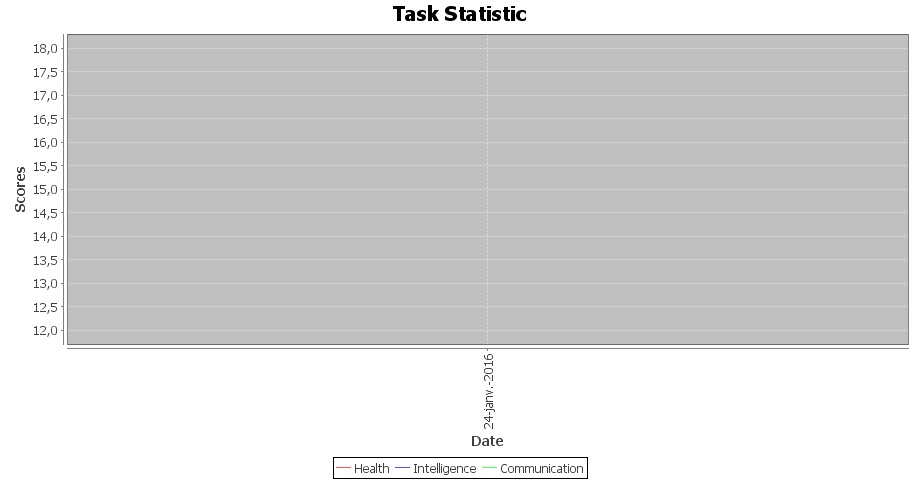
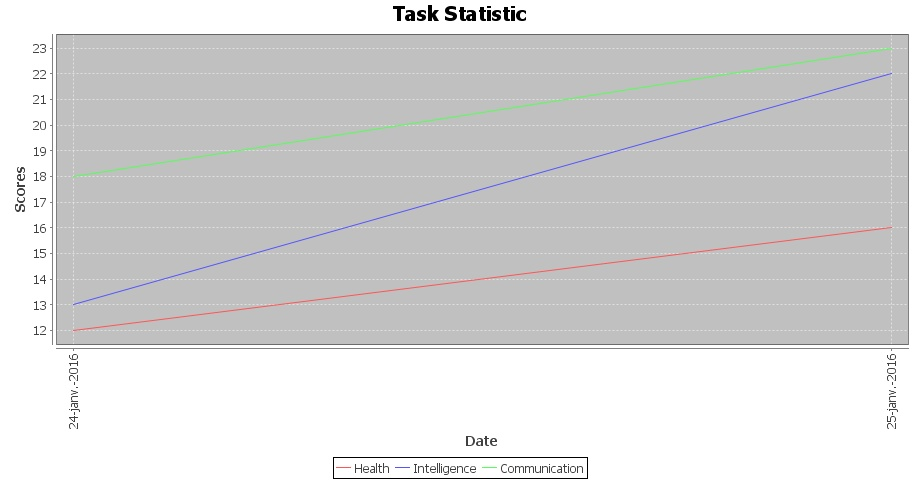
Dopolnenijav TimeService, SessionService

diff --git a/src/main/java/lv/javaguru/java2/services/SessionService.java b/src/main/java/lv/javaguru/java2/services/SessionService.java
@@ -17,7 +17,6 @@ import java.io.IOException;
 import java.sql.Timestamp;
 import java.text.ParseException;
 import java.text.SimpleDateFormat;
-import java.util.ArrayList;
 import java.util.Date;
 import java.util.List;
 
@@ -65,16 +64,6 @@ public class SessionService {
         List<HistoryRecord> historyRecordListInRange = historyRecordDAO.getAllHistoryRecords(user);
         session.setAttribute("historyRecordList", historyRecordList);
 
-        java.sql.Timestamp stopDate = (Timestamp) session.getAttribute("stopDate");
-        java.sql.Timestamp startDate = timeService.getStartDateTimestamp();
-
-
-        List<HistoryRecord> historyRecordsInRange = historyRecordDAO.getHistoryRecordsInRange(user, startDate, stopDate);
-
-        chartService.createBarChart(user);
-
-        chartService.createTimeSeriesChart(historyRecordsInRange);
-
     }
 
 
@@ -83,25 +72,25 @@ public class SessionService {
         HttpSession session = request.getSession();
         User user = (User) session.getAttribute("user");
 
-        java.sql.Timestamp dateToday = timeService.getSqlTimestamp();
-        String formattedDateToday = new SimpleDateFormat("yyyy-MM-dd").format(dateToday);
+        java.sql.Timestamp stopDate = timeService.getEndOfDateTimestamp();
+        String formattedStopDate = new SimpleDateFormat("yyyy-MM-dd").format(stopDate);
 
         java.sql.Timestamp lastLogin = user.getLastLogin();
         String formattedLastLogin = new SimpleDateFormat("yyyy-MM-dd").format(lastLogin);
 
-        if(!formattedLastLogin.equals(formattedDateToday)) {
+        if(!formattedLastLogin.equals(formattedStopDate)) {
             List<Task> taskList = user.getTaskList();
             for (Task task : taskList) {
                 task.setAccomplishedYN("N");
             }
-            user.setLastLogin(dateToday);
+            user.setLastLogin(stopDate);
             userDAO.updateUserData(user);
         }
 
-        Date startDate = timeService.subtractDays(dateToday, INITIAL_OFFSET_IN_DAYS);
-        session.setAttribute("formattedDateToday", formattedDateToday);
+        Date startDate = timeService.subtractDays(stopDate, INITIAL_OFFSET_IN_DAYS);
+        session.setAttribute("formattedDateToday", formattedStopDate);
         session.setAttribute("startDate", startDate);
-        session.setAttribute("stopDate", dateToday);
+        session.setAttribute("stopDate", stopDate);
         session.setAttribute("user", user);
 
         List<Task> taskList = taskDAO.getAllUserTasks(user);
@@ -116,7 +105,7 @@ public class SessionService {
         List<HistoryRecord> historyRecordList = historyRecordDAO.getAllHistoryRecords(user);
         session.setAttribute("historyRecordList", historyRecordList);
 
-        List<HistoryRecord> historyRecordsInRange = historyRecordDAO.getHistoryRecordsInRange(user, startDate, dateToday);
+        List<HistoryRecord> historyRecordsInRange = historyRecordDAO.getHistoryRecordsInRange(user, startDate, stopDate);
 
         chartService.createBarChart(user);
 

diff --git a/src/main/java/lv/javaguru/java2/servlet/controllers/UndoAccomplishedTaskControllerImpl.java b/src/main/java/lv/javaguru/java2/servlet/controllers/UndoAccomplishedTaskControllerImpl.java
@@ -7,14 +7,10 @@ import lv.javaguru.java2.database.UserDAO;
 import lv.javaguru.java2.domain.HistoryRecord;
 import lv.javaguru.java2.domain.Task;
 import lv.javaguru.java2.domain.User;
-import lv.javaguru.java2.services.TaskService;
-import lv.javaguru.java2.services.ButtonFunctionService;
-import lv.javaguru.java2.services.SessionService;
-import lv.javaguru.java2.services.TimeService;
+import lv.javaguru.java2.services.*;
 import org.springframework.beans.factory.annotation.Autowired;
 import org.springframework.beans.factory.annotation.Qualifier;
 import org.springframework.stereotype.Controller;
-import org.springframework.transaction.annotation.Transactional;
 import org.springframework.web.bind.annotation.RequestMapping;
 import org.springframework.web.bind.annotation.RequestMethod;
 import org.springframework.web.servlet.ModelAndView;
@@ -22,9 +18,6 @@ import org.springframework.web.servlet.ModelAndView;
 import javax.servlet.http.HttpServletRequest;
 import javax.servlet.http.HttpSession;
 import java.io.IOException;
-import java.security.Timestamp;
-import java.util.Calendar;
-import java.util.Date;
 import java.util.List;
 
 /**
@@ -49,6 +42,8 @@ public class UndoAccomplishedTaskControllerImpl {
     private SessionService sessionService;
     @Autowired
     TimeService timeService;
+    @Autowired
+    ChartService chartService;
 
     @RequestMapping(value = "/undoTask", method = {RequestMethod.POST})
     public ModelAndView execute(HttpServletRequest request) throws DBException, IOException {
@@ -64,8 +59,8 @@ public class UndoAccomplishedTaskControllerImpl {
             user = taskService.resetUserPropertiesByAccomplishedTask(user, task);
             userDAO.updateUserData(user);
 
-            java.sql.Timestamp stopDate = timeService.getSqlTimestamp();
-            java.sql.Timestamp startDate = timeService.getStartDateTimestamp();
+            java.sql.Timestamp stopDate = timeService.getEndOfDateTimestamp();
+            java.sql.Timestamp startDate = timeService.getStartOfDateTimestamp();
 
             List<HistoryRecord> historyRecordsInRange = historyRecordDAO.getHistoryRecordsInRange(user, startDate, stopDate);
 
@@ -74,6 +69,8 @@ public class UndoAccomplishedTaskControllerImpl {
 
             task = taskService.setTaskNotAccomplished(task);
             taskDAO.updateTask(task);
+
+            chartService.createBarChart(user);
 
             sessionService.updateSessionVariables(request);
 

diff --git a/src/main/java/lv/javaguru/java2/servlet/controllers/AccomplishTaskControllerImpl.java b/src/main/java/lv/javaguru/java2/servlet/controllers/AccomplishTaskControllerImpl.java
@@ -7,6 +7,7 @@ import lv.javaguru.java2.database.UserDAO;
 import lv.javaguru.java2.domain.HistoryRecord;
 import lv.javaguru.java2.domain.Task;
 import lv.javaguru.java2.domain.User;
+import lv.javaguru.java2.services.ChartService;
 import lv.javaguru.java2.services.TaskService;
 import lv.javaguru.java2.services.ButtonFunctionService;
 import lv.javaguru.java2.services.SessionService;
@@ -21,6 +22,8 @@ import org.springframework.web.servlet.ModelAndView;
 import javax.servlet.http.HttpServletRequest;
 import javax.servlet.http.HttpSession;
 import java.io.IOException;
+import java.sql.Timestamp;
+import java.util.List;
 
 /**
  * Created by AST on 2015.11.03..
@@ -42,6 +45,8 @@ public class AccomplishTaskControllerImpl{
     private TaskService taskService;
     @Autowired
     private SessionService sessionService;
+    @Autowired
+    ChartService chartService;
 
     @RequestMapping(value = "/accomplishTask", method = {RequestMethod.POST})
     public ModelAndView execute(HttpServletRequest request) throws DBException, IOException {
@@ -63,6 +68,8 @@ public class AccomplishTaskControllerImpl{
 
             HistoryRecord historyRecord = taskService.buildHistoryRecord(user, task);
             historyRecordDAO.createHistoryRecord(historyRecord);
+
+            chartService.createBarChart(user);
 
             sessionService.updateSessionVariables(request);
 

diff --git a/src/main/java/lv/javaguru/java2/services/TimeService.java b/src/main/java/lv/javaguru/java2/services/TimeService.java
@@ -25,7 +25,7 @@ public class TimeService {
         return sqlTimestamp;
     }
 
-    public java.sql.Timestamp getStartDateTimestamp(){
+    public java.sql.Timestamp getStartOfDateTimestamp(){
         java.util.Date utilDate = new java.util.Date();
         Calendar calendar = Calendar.getInstance();
         calendar.setTime(utilDate);
@@ -36,6 +36,19 @@ public class TimeService {
         java.sql.Timestamp sqlTimestamp = new java.sql.Timestamp(calendar.getTime().getTime());
         return sqlTimestamp;
     }
+
+    public java.sql.Timestamp getEndOfDateTimestamp(){
+        java.util.Date utilDate = new java.util.Date();
+        Calendar calendar = Calendar.getInstance();
+        calendar.setTime(utilDate);
+        calendar.set(Calendar.HOUR_OF_DAY, 23);
+        calendar.set(Calendar.MINUTE, 59);
+        calendar.set(Calendar.SECOND, 59);
+        calendar.set(Calendar.MILLISECOND, 999);
+        java.sql.Timestamp sqlTimestamp = new java.sql.Timestamp(calendar.getTime().getTime());
+        return sqlTimestamp;
+    }
+
     public Date subtractDays(Date date, int day){
         Calendar calendar = Calendar.getInstance();
         calendar.setTime(date);

diff --git a/src/main/java/lv/javaguru/java2/servlet/controllers/CreateUserControllerImpl.java b/src/main/java/lv/javaguru/java2/servlet/controllers/CreateUserControllerImpl.java
@@ -13,13 +13,17 @@ import org.springframework.web.bind.annotation.RequestMethod;
 import org.springframework.web.servlet.ModelAndView;
 
 import javax.servlet.http.HttpServletRequest;
+import javax.servlet.http.HttpSession;
+import java.util.List;
 
 /**
  * Created by mike on 2015.11.03..
  */
-@Transactional
 @Controller
 public class CreateUserControllerImpl {
+    @Autowired
+    @Qualifier("UserDAO_ORM")
+    private UserDAO userDAO;
     @Autowired
     private UserService userService;
     @Autowired
@@ -47,7 +51,9 @@ public class CreateUserControllerImpl {
 
             userService.addDefaultTasks(user);
 
-            sessionService.updateSessionVariables(request);
+            List<User> userList = userDAO.getAllUsers();
+            HttpSession session = request.getSession();
+            session.setAttribute("userList", userList);
 
             return new ModelAndView("/userAdmin.jsp", "model", "User Registration Successful");
 

diff --git a/src/main/java/lv/javaguru/java2/config/SpringConfig.java b/src/main/java/lv/javaguru/java2/config/SpringConfig.java
@@ -21,8 +21,9 @@ import java.util.Properties;
 /**
  * Created by xxx on 2015.11.20..
  */
+    //@ComponentScan(basePackages = {"lv.javaguru.java2", "Java2_2015_GoBig_RPG"})
     @Configuration
-    @ComponentScan(basePackages = {"lv.javaguru.java2", "Java2_2015_GoBig_RPG"})
+    @ComponentScan(basePackages = {"lv.javaguru.java2"})
     @EnableTransactionManagement
     public class SpringConfig {
 

diff --git a/target/tomcat/work/Tomcat/localhost/java2/org/apache/jsp/activeTasks_jsp.java b/target/tomcat/work/Tomcat/localhost/java2/org/apache/jsp/activeTasks_jsp.java
@@ -1,7 +1,7 @@
 /*
  * Generated by the Jasper component of Apache Tomcat
  * Version: Apache Tomcat/7.0.37
- * Generated at: 2016-01-24 16:15:54 UTC
+ * Generated at: 2016-01-25 09:41:52 UTC
  * Note: The last modified time of this file was set to
  *       the last modified time of the source file after
  *       generation to assist with modification tracking.

diff --git a/target/tomcat/work/Tomcat/localhost/java2/org/apache/jsp/index_jsp.java b/target/tomcat/work/Tomcat/localhost/java2/org/apache/jsp/index_jsp.java
@@ -1,7 +1,7 @@
 /*
  * Generated by the Jasper component of Apache Tomcat
  * Version: Apache Tomcat/7.0.37
- * Generated at: 2016-01-24 16:15:48 UTC
+ * Generated at: 2016-01-25 09:11:24 UTC
  * Note: The last modified time of this file was set to
  *       the last modified time of the source file after
  *       generation to assist with modification tracking.
